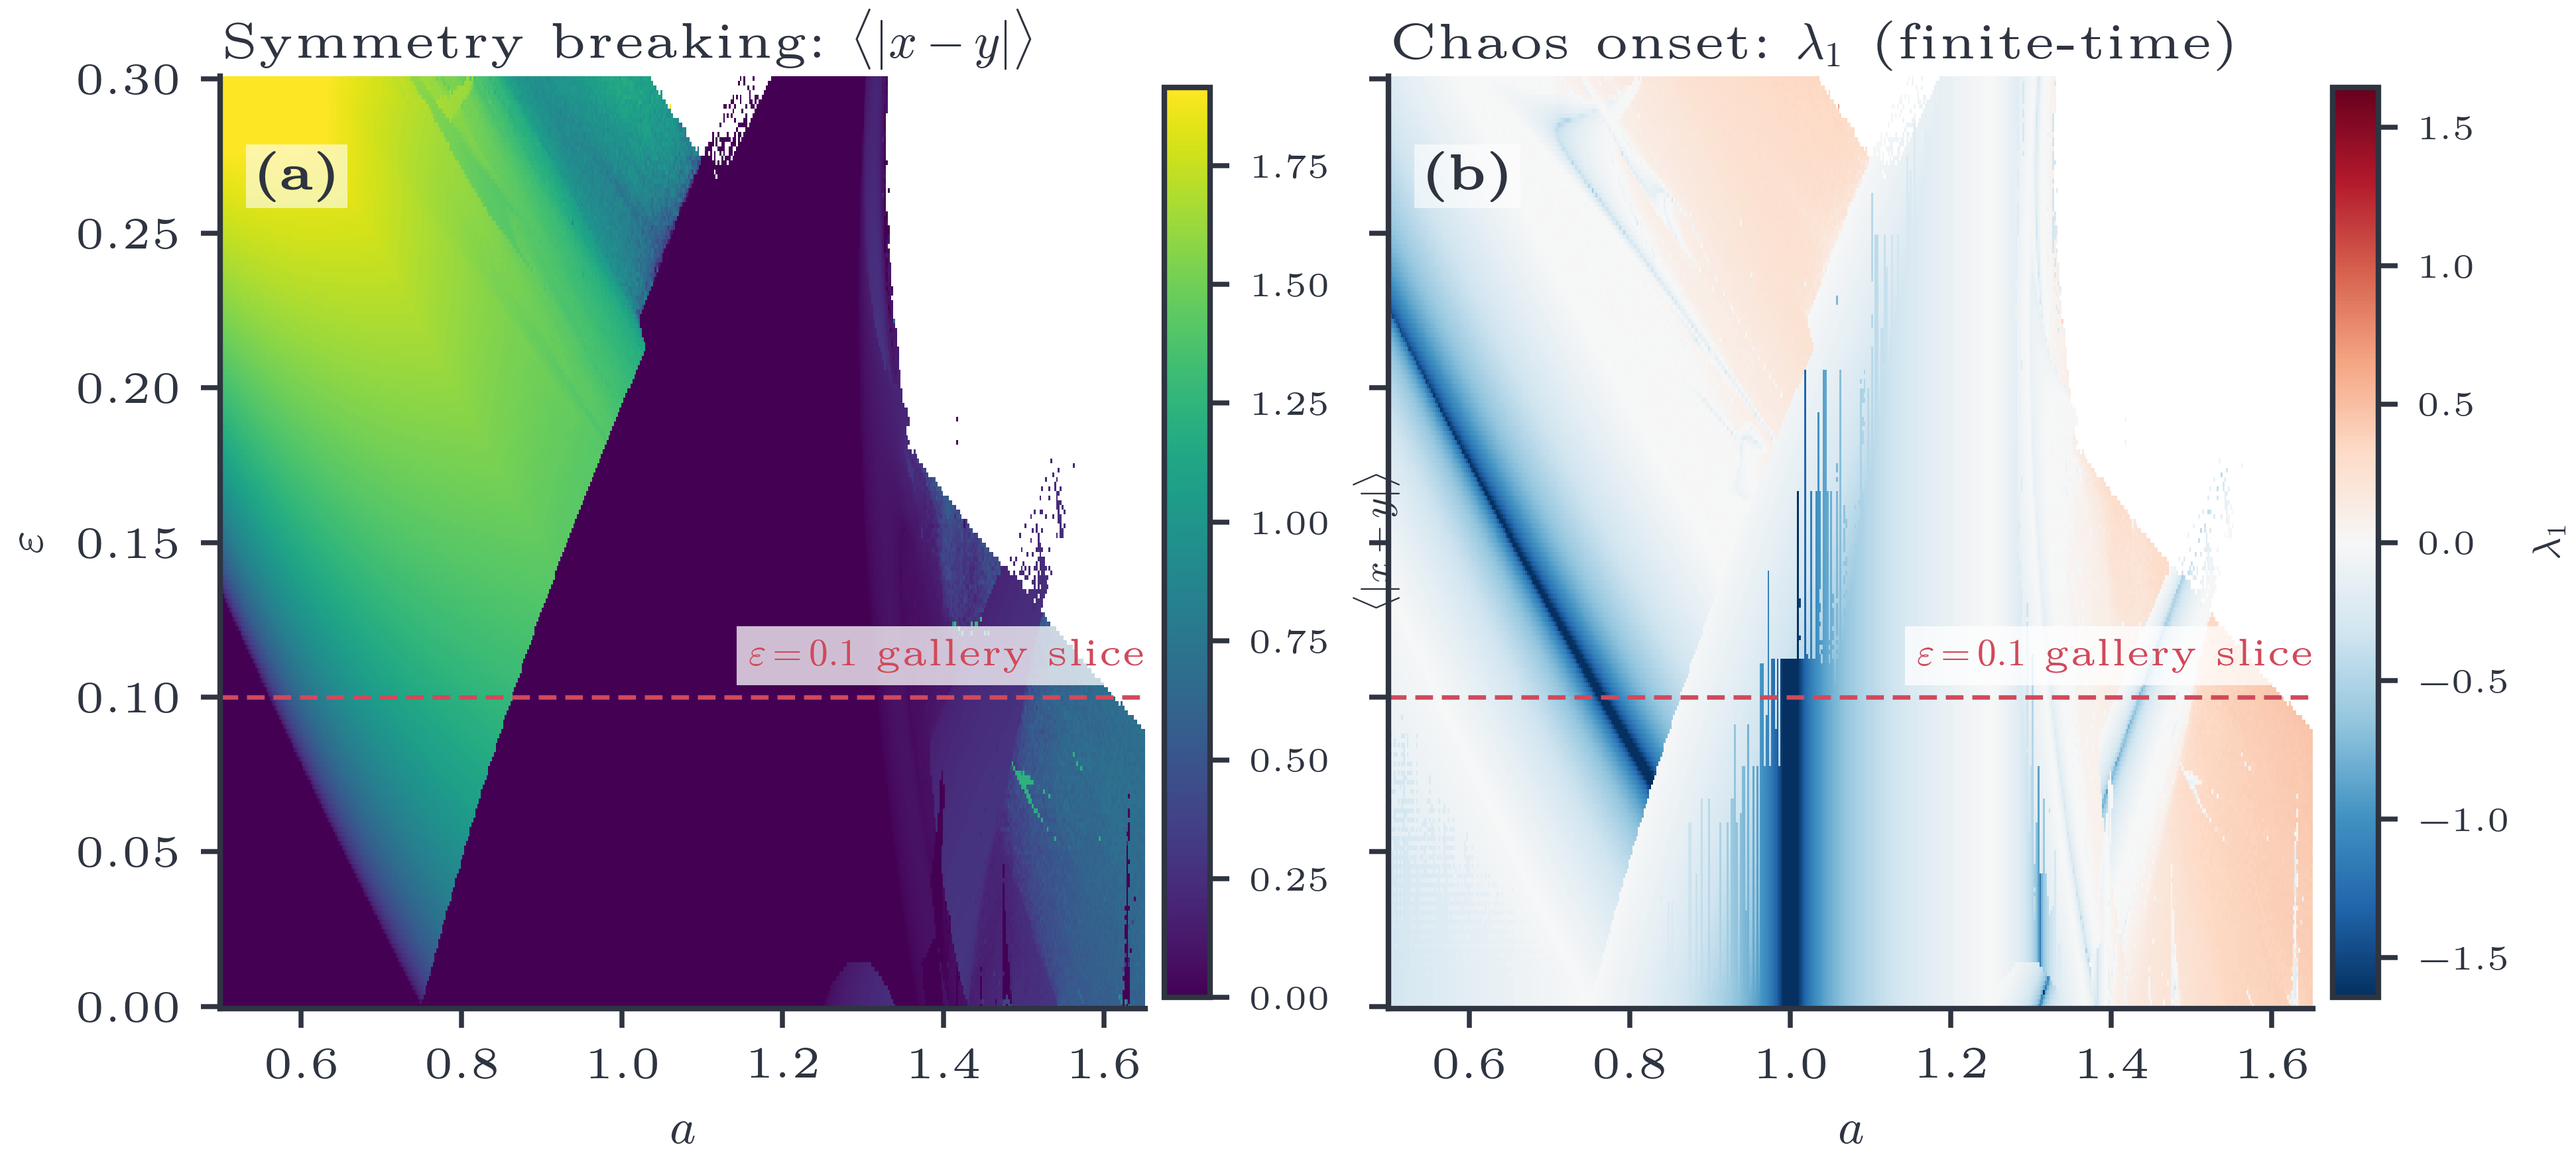
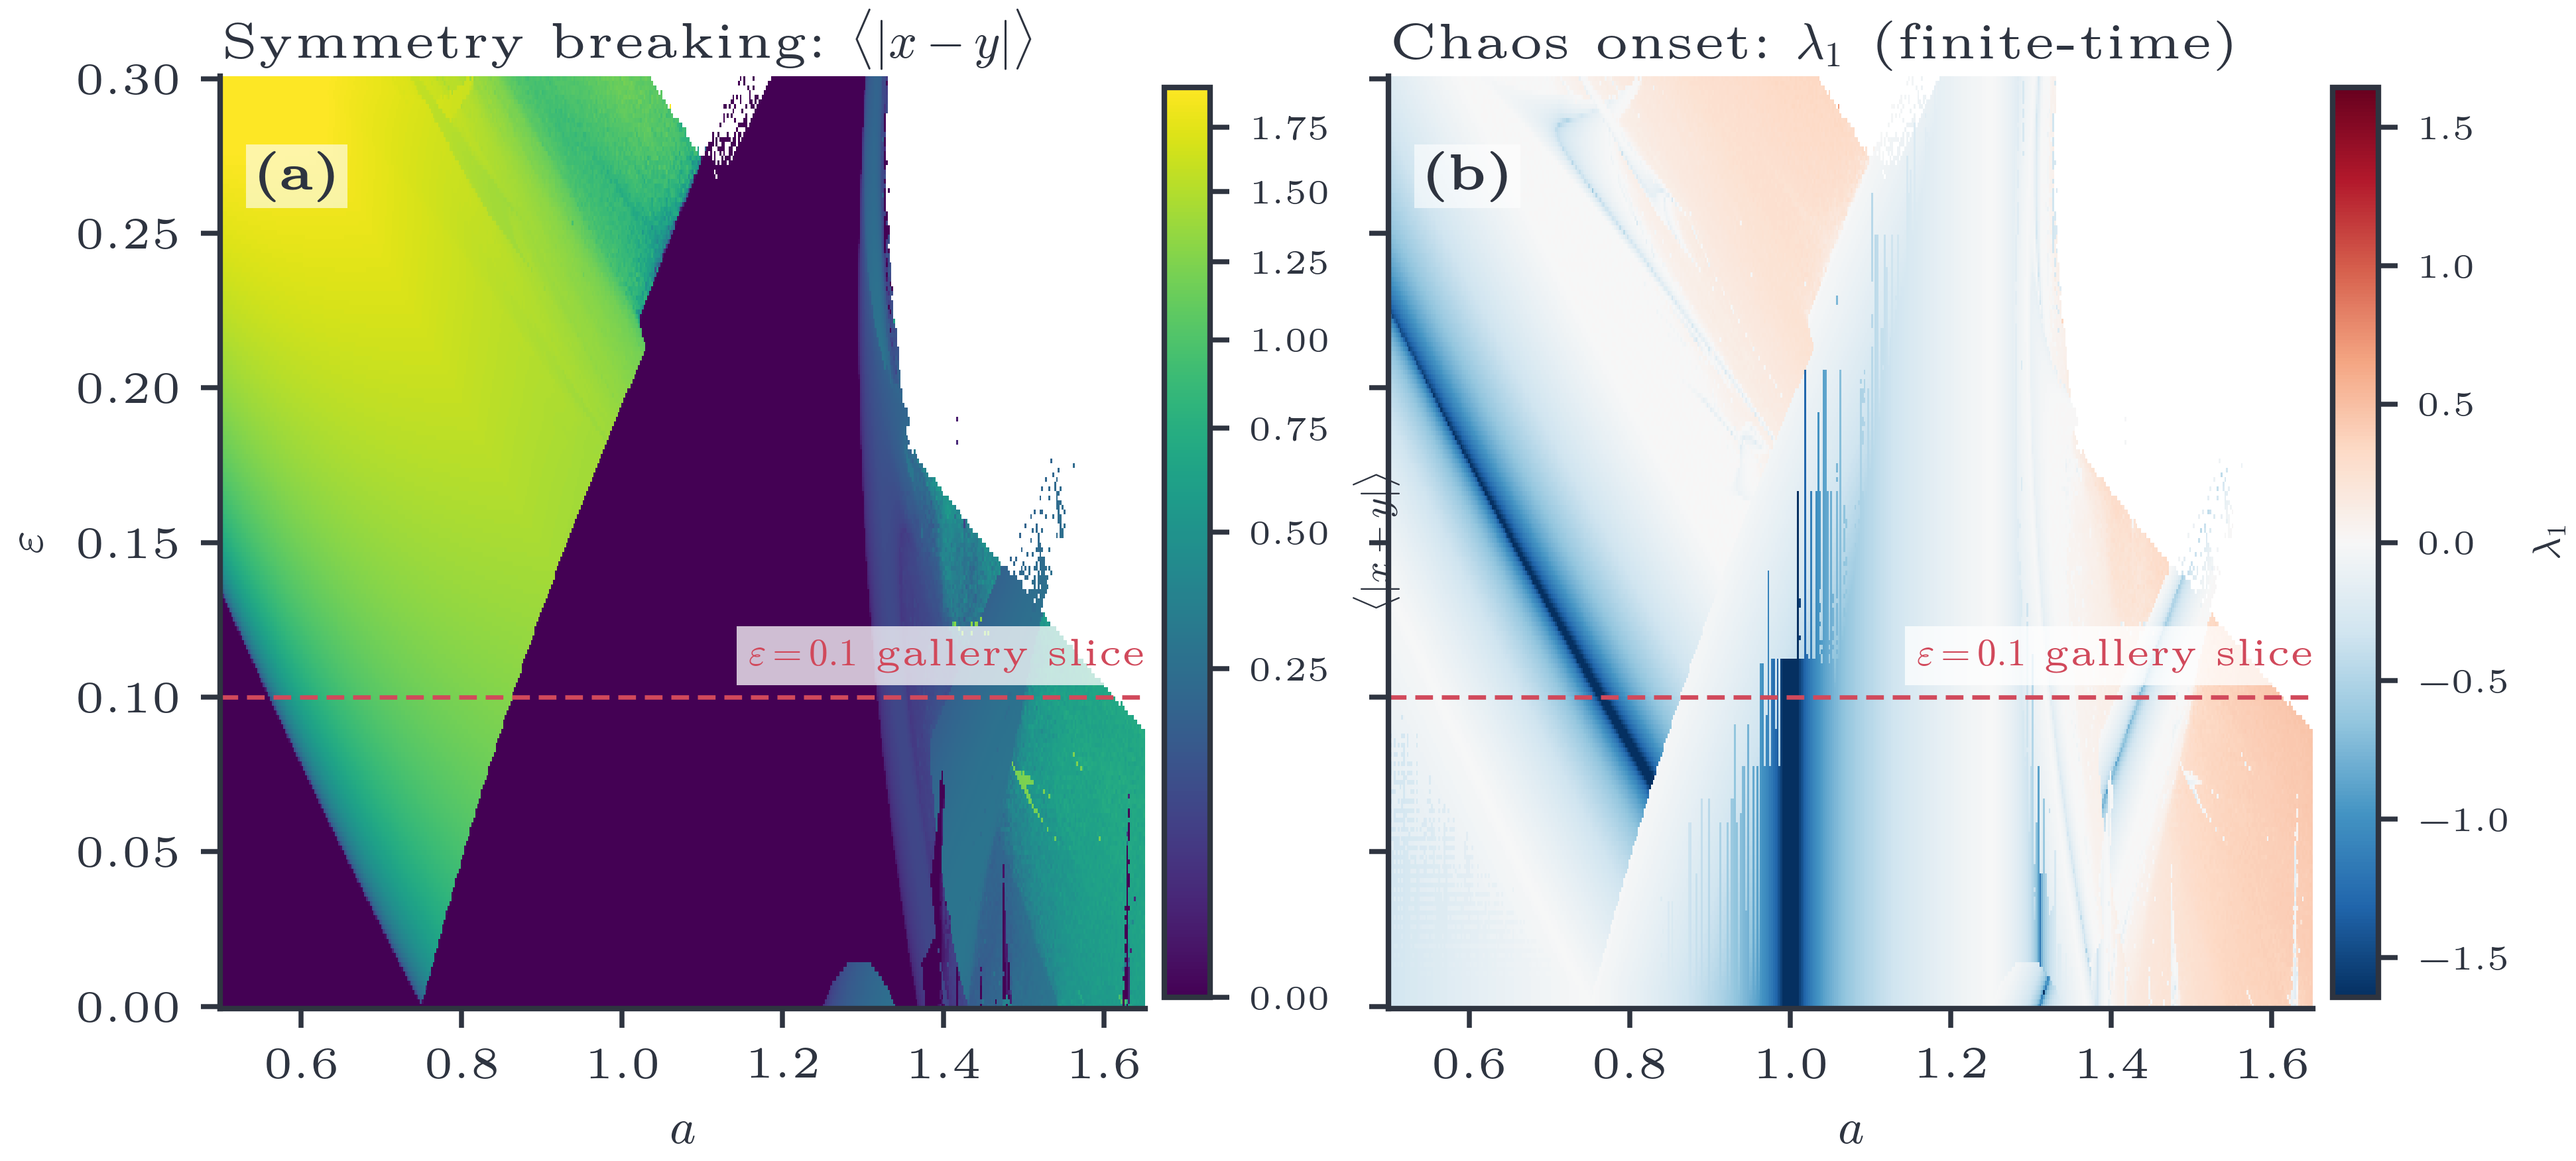
impl: Fig13 panel(a) PowerNorm colour-scale + caption (bead .5)
- coupled_logistic.py plot_phase_diagram(): panel (a) symmetry-order-parameter
  field now uses PowerNorm(gamma=0.5, vmin=0, vmax=p99) so the small-amplitude
  symmetry-break route (a~1.34-1.37, m~0.07) is visible instead of near-black
  against the large-amplitude low-a coexisting two-cycle (m~1.9). Panel (b),
  seed, data, and asym_vmax value unchanged.
- Fig 13 caption: explain the sqrt colour scale and identify the low-a bright band.
- Re-rendered phase_diagram.png from cached npz (npz byte-identical, no recompute).
- Rebuilt main.pdf (also folds in goal #1 text fixes).

Presentation-only; determinism freeze intact. Visually verified.

diff --git a/src/dynachaos/maps/coupled_logistic.py b/src/dynachaos/maps/coupled_logistic.py
@@ -421,6 +421,7 @@ def compute_basins(
 def plot_phase_diagram(data):
     """Plot a coarse parameter survey in (A, D) space."""
     import matplotlib.pyplot as plt
+    from matplotlib.colors import PowerNorm
 
     from dynachaos.utils.style import (
         CMAP_DIVERGING,
@@ -455,8 +456,7 @@ def plot_phase_diagram(data):
         D,
         asym,
         cmap=asym_cmap,
-        vmin=0.0,
-        vmax=asym_vmax,
+        norm=PowerNorm(gamma=0.5, vmin=0.0, vmax=asym_vmax),
         rasterized=True,
         shading="auto",
     )
